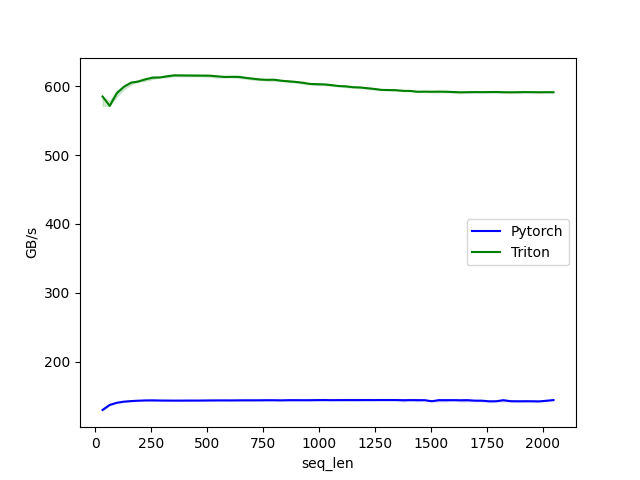
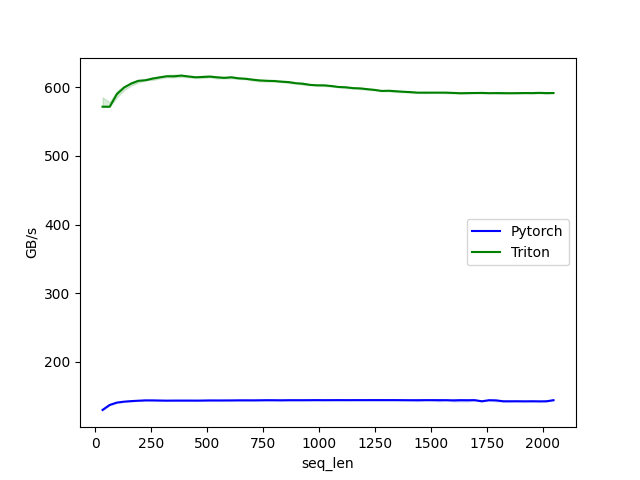
readme

diff --git a/README.md b/README.md
@@ -16,11 +16,19 @@ docker run --gpus all --ipc=host --ulimit memlock=-1 --ulimit stack=67108864 -v 
 
 ## Result
 
+* Implemented `TritonRoPE` class and performed benchmark, profiling against `transformer_engine.attention.apply_rotary_pos_emb`.
+* TritonRoPE is implemented as in-place operaton.
+* It's ~x8 times faster on foward pass, ~x6 times faster on backward pass, than Pytorch.
+* I referenced a lot from unsloth, where they have carefully tuned launch grid size and block size.
+* I see that CUDA programming adopts blocked threads whereas Triton adopts blocked programs. I don't fully understand this; as far as I know, thread is supposed to be a subset of a program...?
+* Couldn't perform fair comparison on kernel operation scale, due to lack of knowledge & time for debugging & profiling CUDA programming.
+* Wish I could look into computational graphs and see what's going on.
 
  forward benchmark         | backward benchmark
 :-------------------------:|:-------------------------:
 ![](results/rope_fw.png)   | ![](results/rope_bw.png)
 
+**Pytorch forward profiling**
 ```
 [64 rows x 3 columns]
 -------------------------------------------------------  ------------  ------------  ------------  ------------  ------------  ------------  ------------  ------------  ------------  ------------
@@ -39,7 +47,9 @@ void at::native::elementwise_kernel<128, 2, at::nati...         0.00%       0.00
 -------------------------------------------------------  ------------  ------------  ------------  ------------  ------------  ------------  ------------  ------------  ------------  ------------
 Self CPU time total: 370.000us
 Self CUDA time total: 62.000us
-
+```
+**Triton forward profiling**
+```
 -------------------------------------------------------  ------------  ------------  ------------  ------------  ------------  ------------  ------------  ------------  ------------  ------------
                                                    Name    Self CPU %      Self CPU   CPU total %     CPU total  CPU time avg     Self CUDA   Self CUDA %    CUDA total  CUDA time avg    # of Calls
 -------------------------------------------------------  ------------  ------------  ------------  ------------  ------------  ------------  ------------  ------------  ------------  ------------
@@ -54,9 +64,9 @@ void at::native::vectorized_elementwise_kernel<4, at...         0.00%       0.00
                                           aten::reshape         0.13%       3.000us         0.51%      12.000us       6.000us       0.000us         0.00%       0.000us       0.000us             2
                                              aten::view         0.38%       9.000us         0.38%       9.000us       4.500us       0.000us         0.00%       0.000us       0.000us             2
 -------------------------------------------------------  ------------  ------------  ------------  ------------  ------------  ------------  ------------  ------------  ------------  ------------
-```
 Self CPU time total: 2.351ms
 Self CUDA time total: 13.000us
+```
 
 ## References
 
